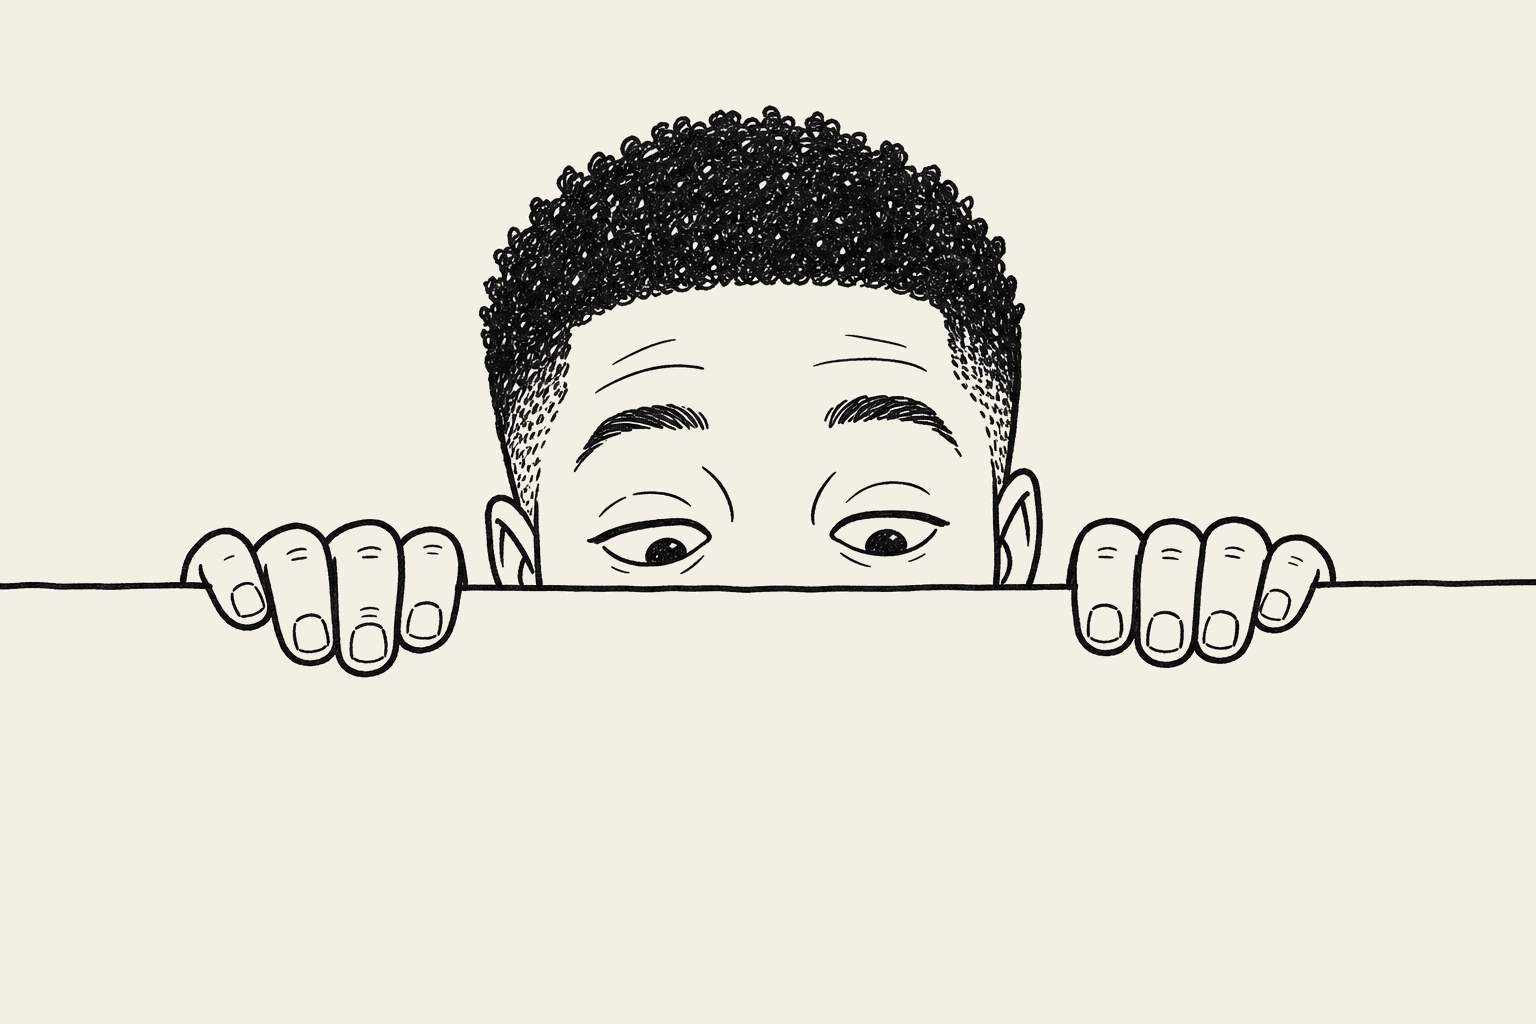
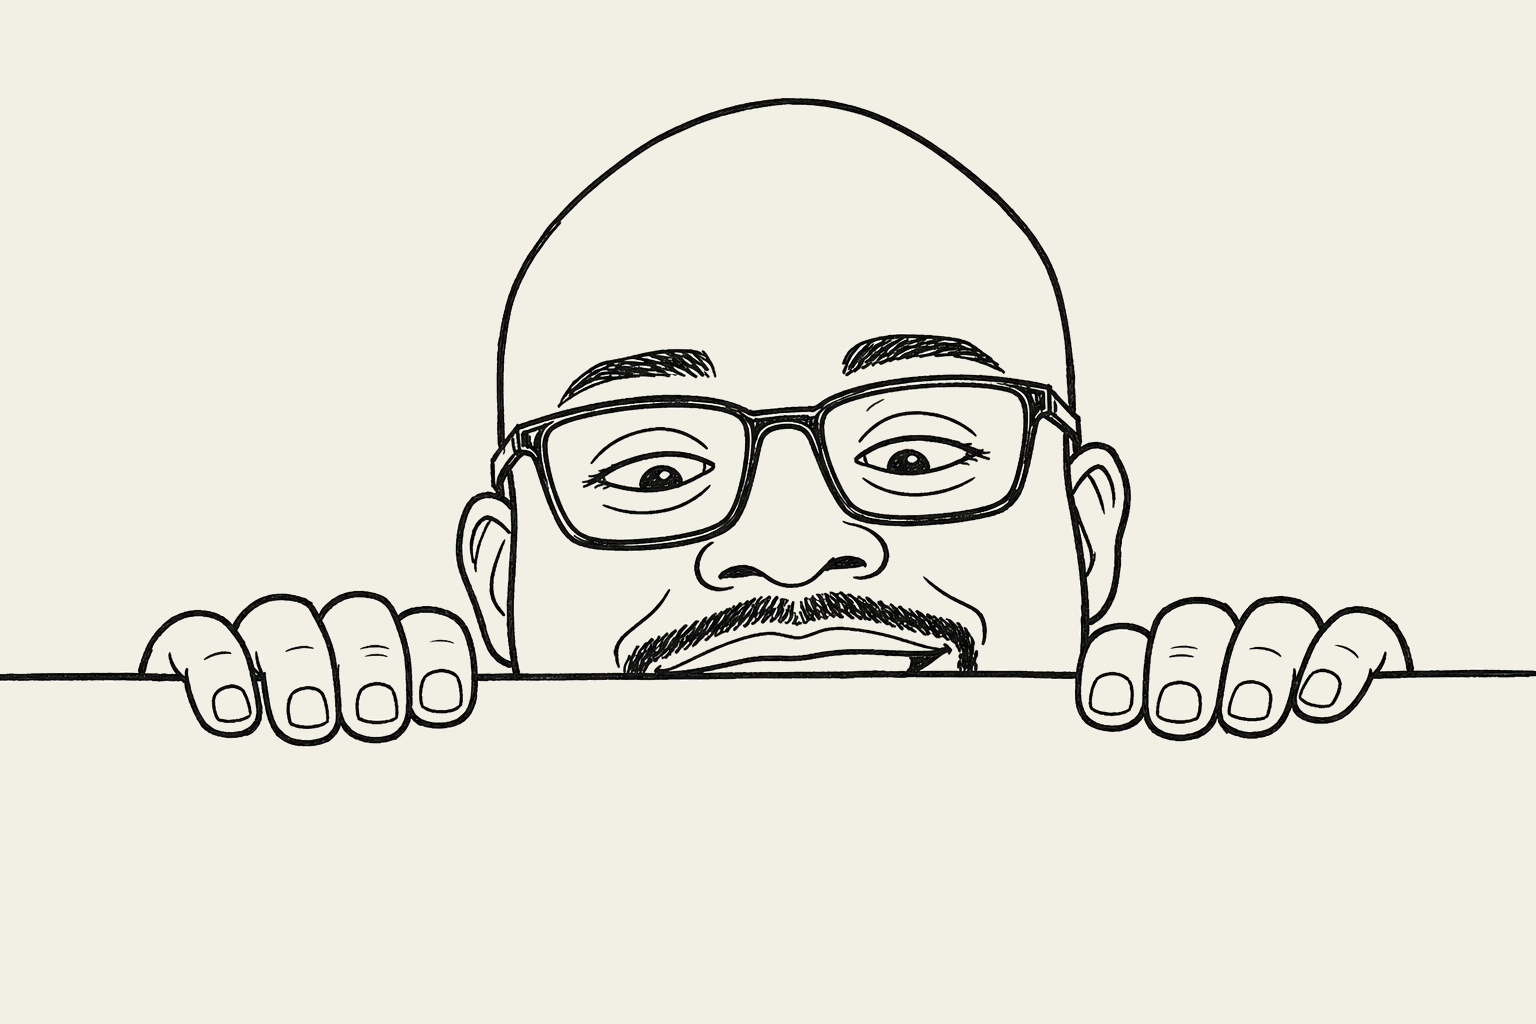
Reposition author sketch to right side, update likeness

Changed region(s): [[0.0, 0.0938, 1.0, 0.75]]

diff --git a/layouts/partials/comments.html b/layouts/partials/comments.html
@@ -1,19 +1,20 @@
-<div style="text-align: center; margin-bottom: -20px; position: relative; z-index: 1;">
-  <img src="/images/peering-author.png" alt="" style="max-width: 180px; margin-bottom: 0;">
+<div style="position: relative;">
+  <img src="/images/peering-author.png" alt=""
+       style="position: absolute; right: 0; top: -60px; width: 120px; z-index: 1; pointer-events: none;">
+  <script src="https://giscus.app/client.js"
+          data-repo="cabynum/cabynum.github.io"
+          data-repo-id="R_kgDOSl4emw"
+          data-category="General"
+          data-category-id="DIC_kwDOSl4em84DA6Wk"
+          data-mapping="pathname"
+          data-strict="0"
+          data-reactions-enabled="1"
+          data-emit-metadata="0"
+          data-input-position="top"
+          data-theme="https://cabynum.github.io/css/giscus.css"
+          data-lang="en"
+          data-loading="lazy"
+          crossorigin="anonymous"
+          async>
+  </script>
 </div>
-<script src="https://giscus.app/client.js"
-        data-repo="cabynum/cabynum.github.io"
-        data-repo-id="R_kgDOSl4emw"
-        data-category="General"
-        data-category-id="DIC_kwDOSl4em84DA6Wk"
-        data-mapping="pathname"
-        data-strict="0"
-        data-reactions-enabled="1"
-        data-emit-metadata="0"
-        data-input-position="top"
-        data-theme="https://cabynum.github.io/css/giscus.css"
-        data-lang="en"
-        data-loading="lazy"
-        crossorigin="anonymous"
-        async>
-</script>
